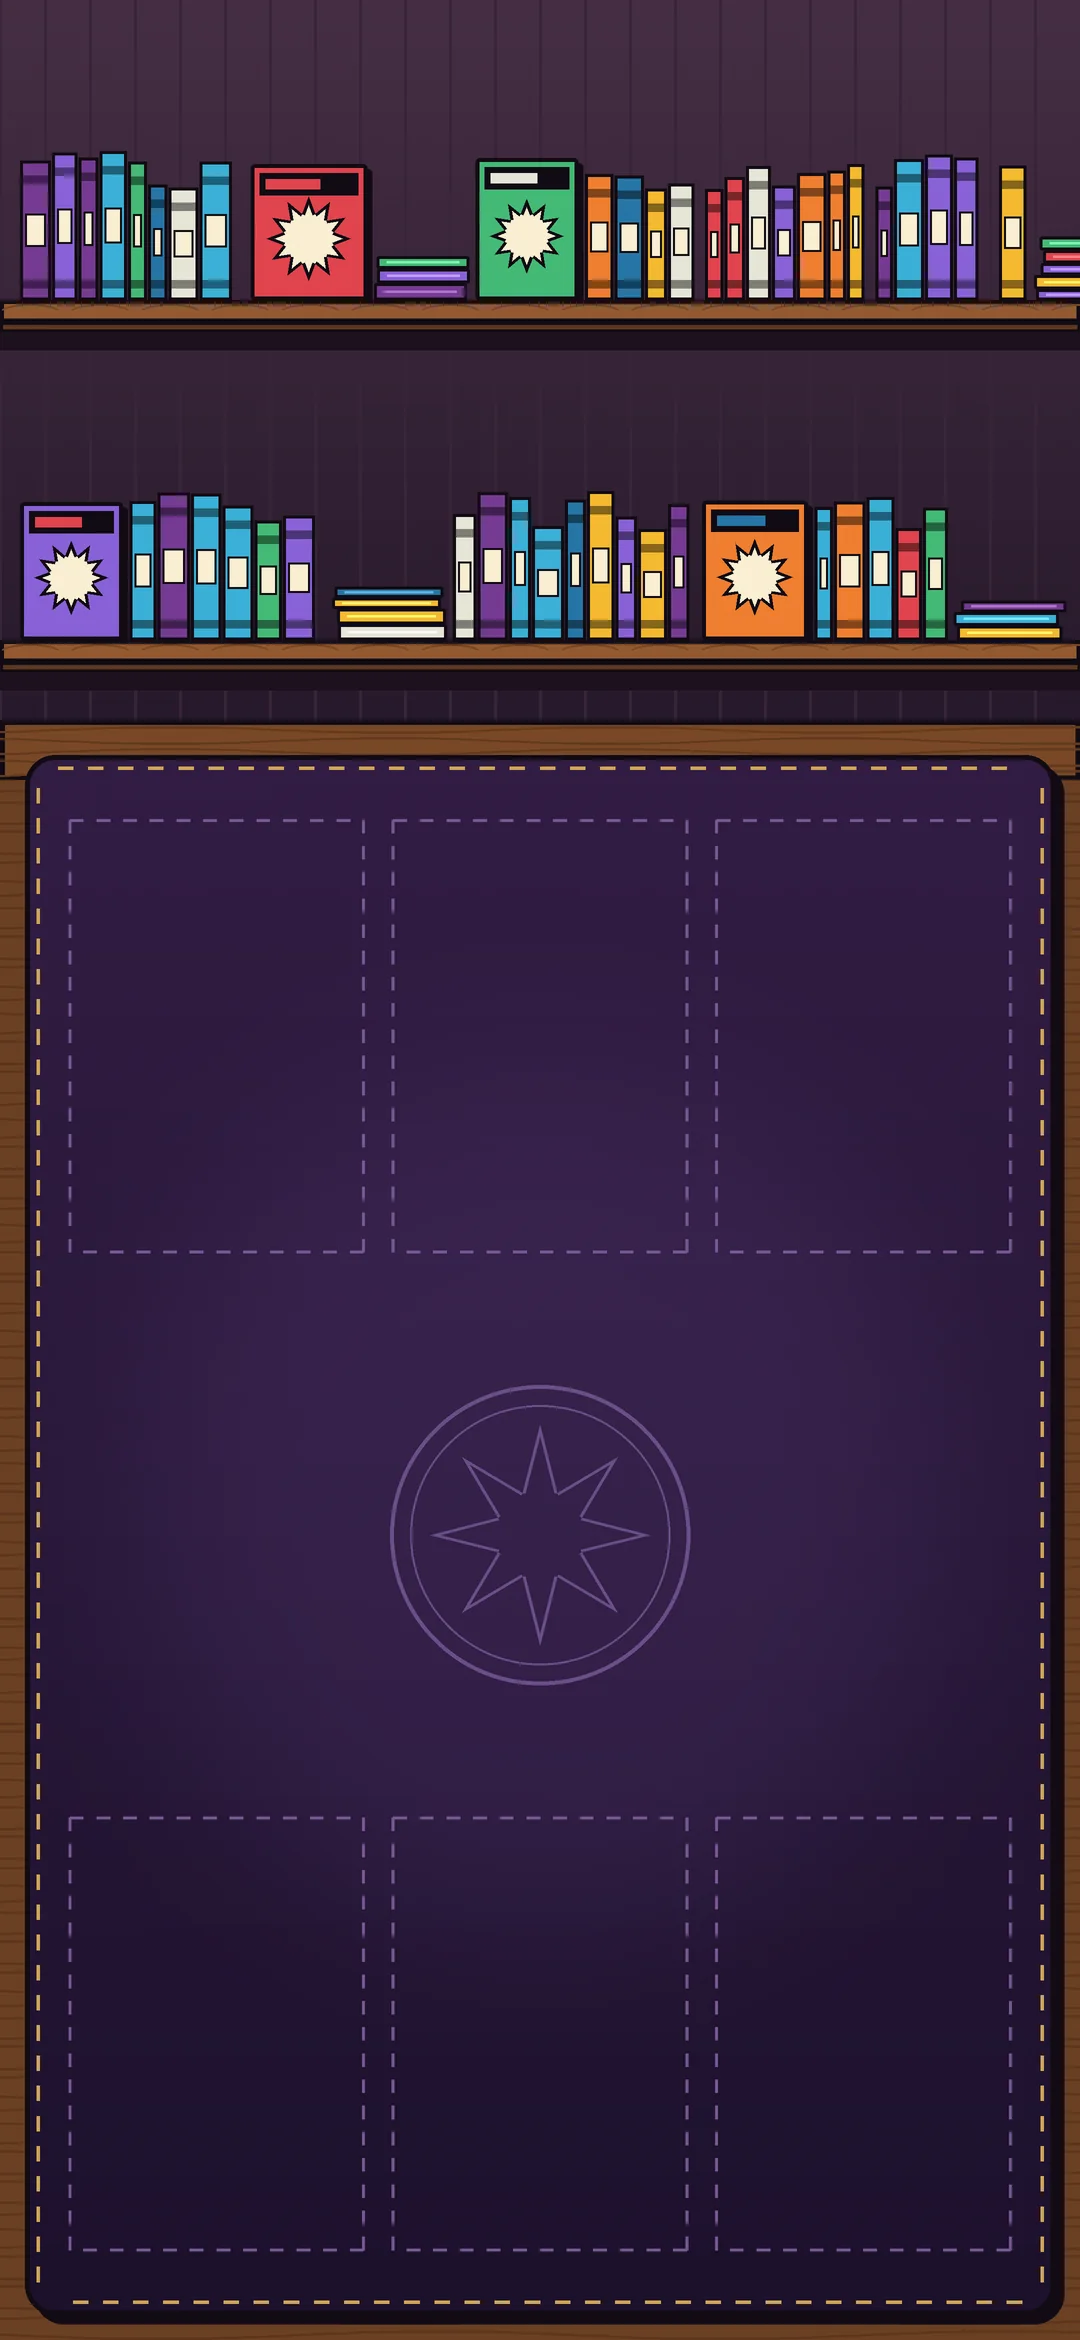
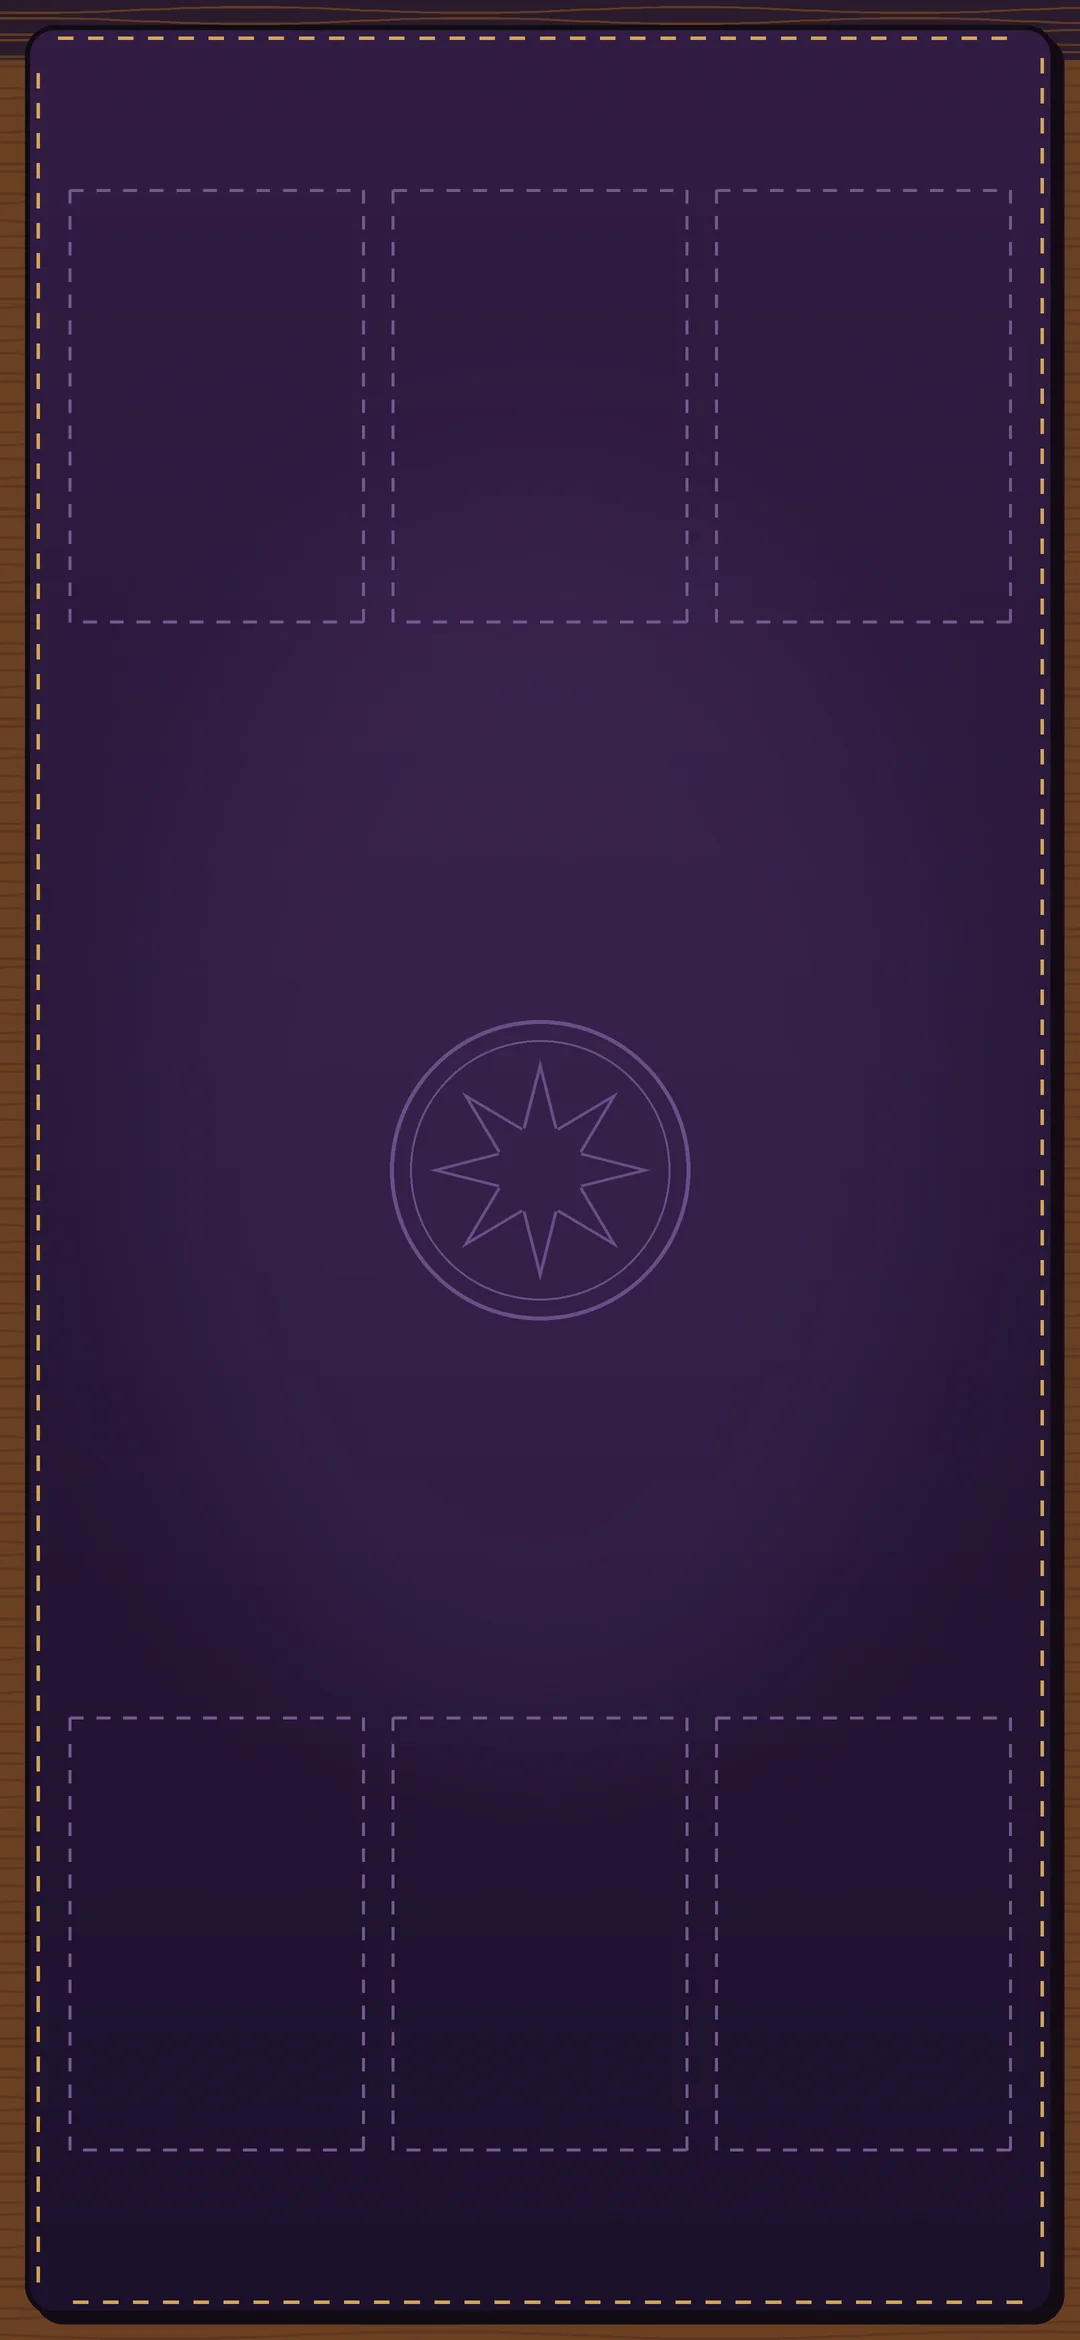
Pagina Mazzo: tolti gli scaffali, resta solo il tappetino da gioco come zona di lavoro
Claude-Session: https://claude.ai/code/session_01GbypLYdo7YYeqXmyNx1goG

diff --git a/strumenti/genera_sfondo_libreria.py b/strumenti/genera_sfondo_libreria.py
@@ -13,7 +13,7 @@ def ombra_box(box, r=0, off=10):
     d.rounded_rectangle([x0 + off, y0 + off, x1 + off, y1 + off], r, fill=(20, 12, 22))
 
 # ---------- parete con scaffali ----------
-PARETE_FINE = 720 * K
+PARETE_FINE = 0          # niente scaffali: solo la zona di lavoro (Alessio 7/11)
 # parete: gradiente scuro caldo con leggera luce dall'alto
 for y in range(PARETE_FINE):
     t = y / PARETE_FINE
@@ -23,7 +23,7 @@ for y in range(PARETE_FINE):
 for x in range(0, w, 90):
     d.line([(x, 0), (x, PARETE_FINE)], fill=(58, 38, 58), width=6)
 colori = [(230, 70, 80), (250, 190, 50), (60, 180, 220), (140, 100, 220), (70, 190, 120), (245, 130, 50), (235, 235, 220), (120, 60, 150), (40, 120, 170)]
-mensole = [300, 640]
+mensole = []
 for my in mensole:
     x = 40
     base = my * K
@@ -76,7 +76,6 @@ for my in mensole:
 
 # ---------- bordo del tavolo ----------
 TY = PARETE_FINE
-d.rectangle([0, TY, w, TY + 120], fill=(124, 74, 40), outline=INK, width=10)
 for gy in range(TY + 20, TY + 110, 22):
     pts = [(x, gy + 6 * math.sin(x / 140 + gy)) for x in range(0, w + 40, 40)]
     d.line(pts, fill=(102, 60, 32), width=5)
@@ -87,7 +86,7 @@ for gy in range(TY + 140, h, 30):
 
 # ---------- tappetino da gioco ----------
 M = 50
-mat = [M, TY + 70, w - M, h - M]
+mat = [M, M, w - M, h - M]
 ombra_box(mat, 60, 18)
 x0, y0, x1, y1 = mat
 tap = Image.new('RGB', (x1 - x0, y1 - y0)); td = ImageDraw.Draw(tap)
@@ -109,7 +108,7 @@ def tratteggio(box, col, wdt=6, seg=26):
         for i in range(0, n, 2):
             t0, t1 = i / n, min(1, (i + 1) / n)
             td.line([(ax + (bx - ax) * t0, ay + (by - ay) * t0), (ax + (bx - ax) * t1, ay + (by - ay) * t1)], fill=col, width=wdt)
-for y in (130, tap.height - 130 - ch):
+for y in (330, tap.height - 330 - ch):
     for i in range(3):
         bx = 90 + i * (cw + 60)
         tratteggio([bx, y, bx + cw, y + ch], (120, 90, 150))
